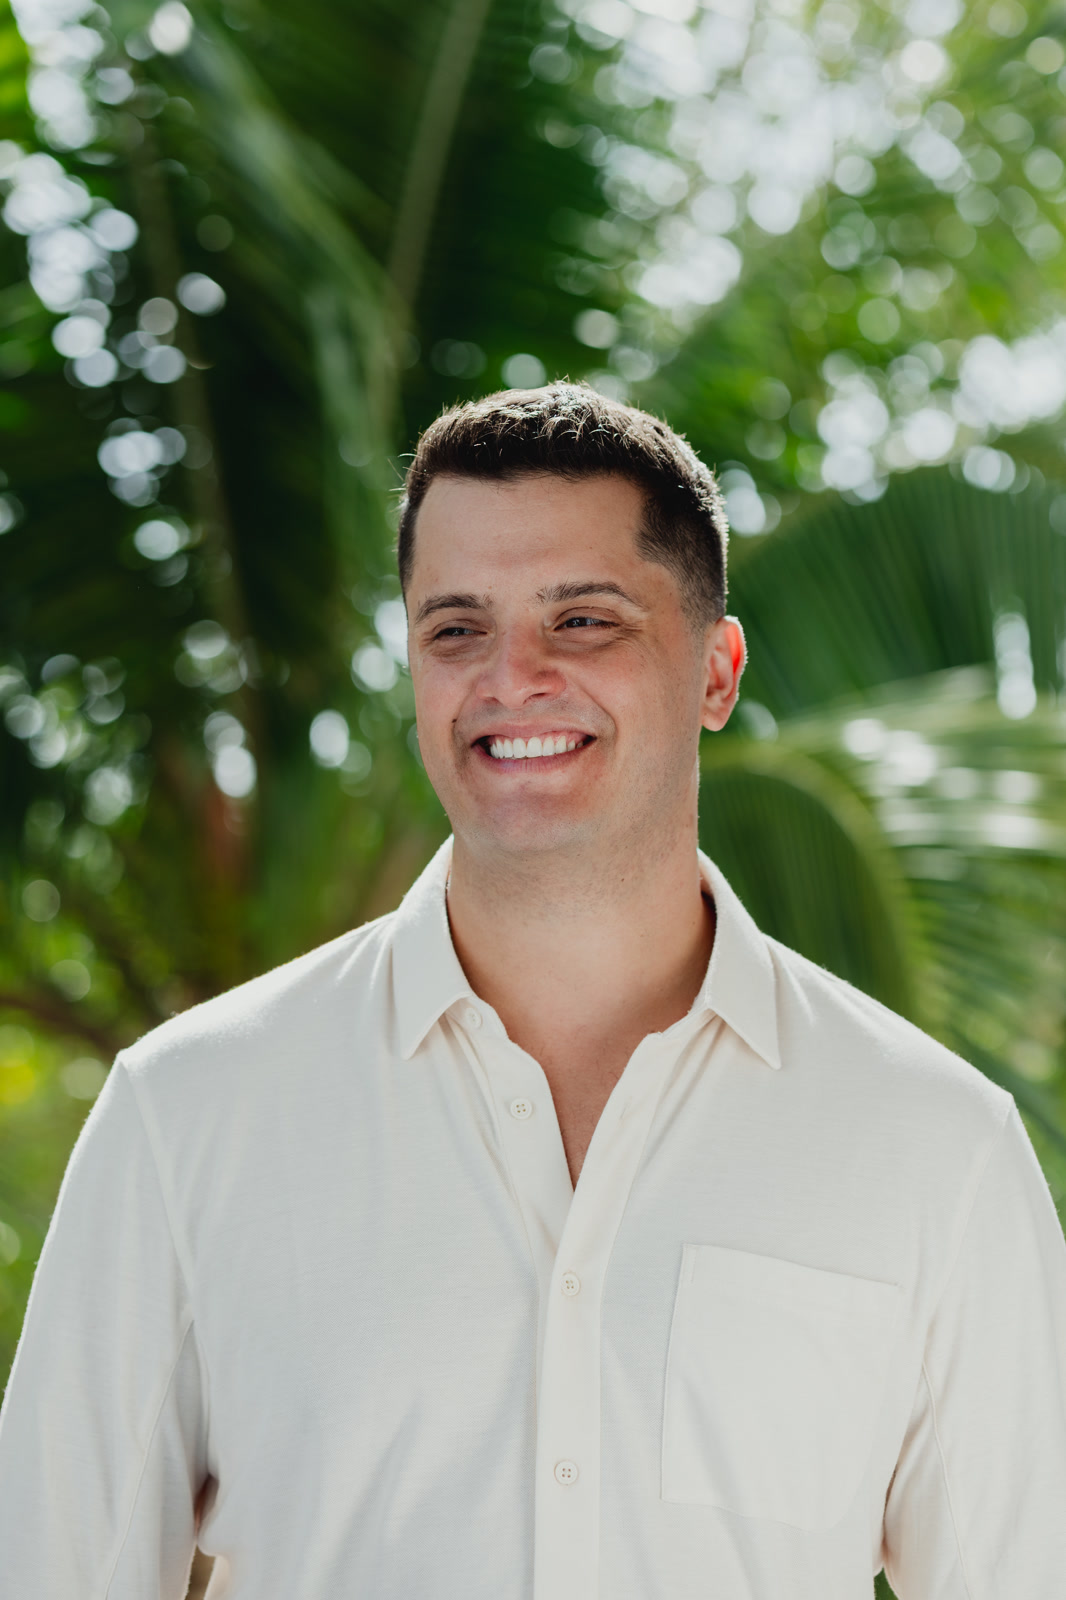
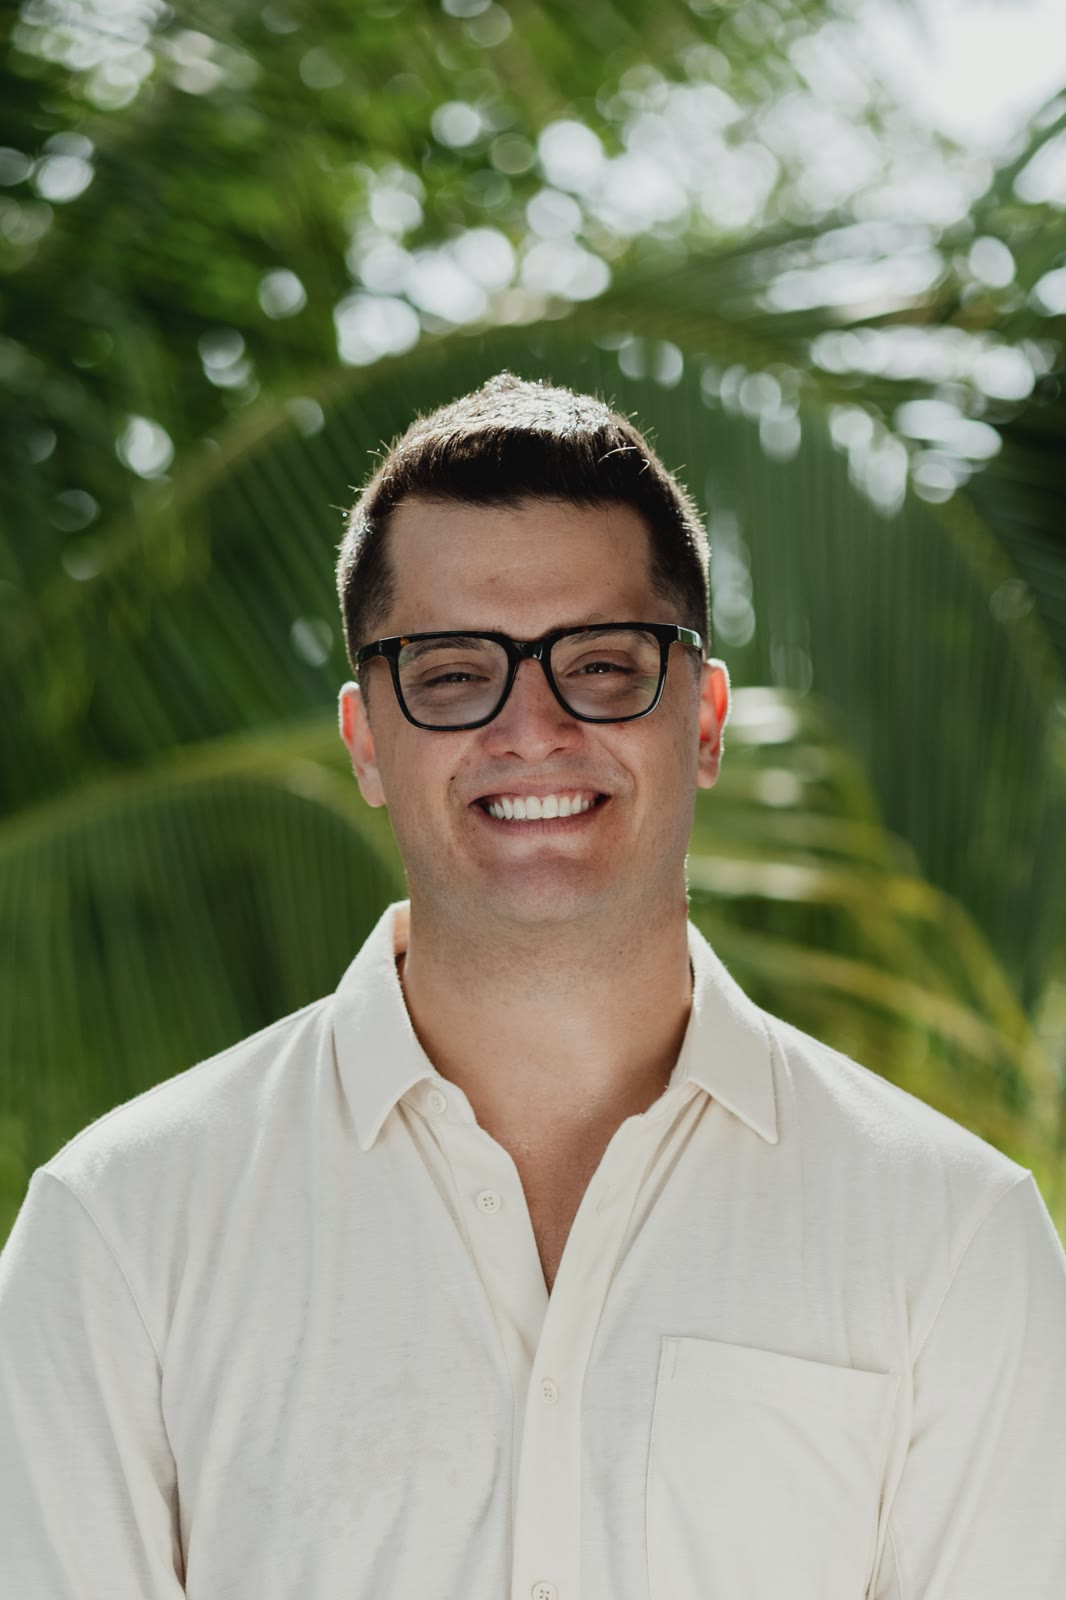
Use glasses portrait as homepage hero.

diff --git a/src/app/page.tsx b/src/app/page.tsx
@@ -68,7 +68,7 @@ export default function HomePage() {
           </div>
           <MediaFrame
             src="/photos/nik-hero-portrait.jpg"
-            alt="Nik Vassev smiling outdoors in a cream polo, palms behind him."
+            alt="Nik Vassev smiling outdoors in a cream polo and glasses, palms behind him."
             ratio="portrait"
             priority
             className="mx-auto w-full max-w-sm lg:max-w-none"
